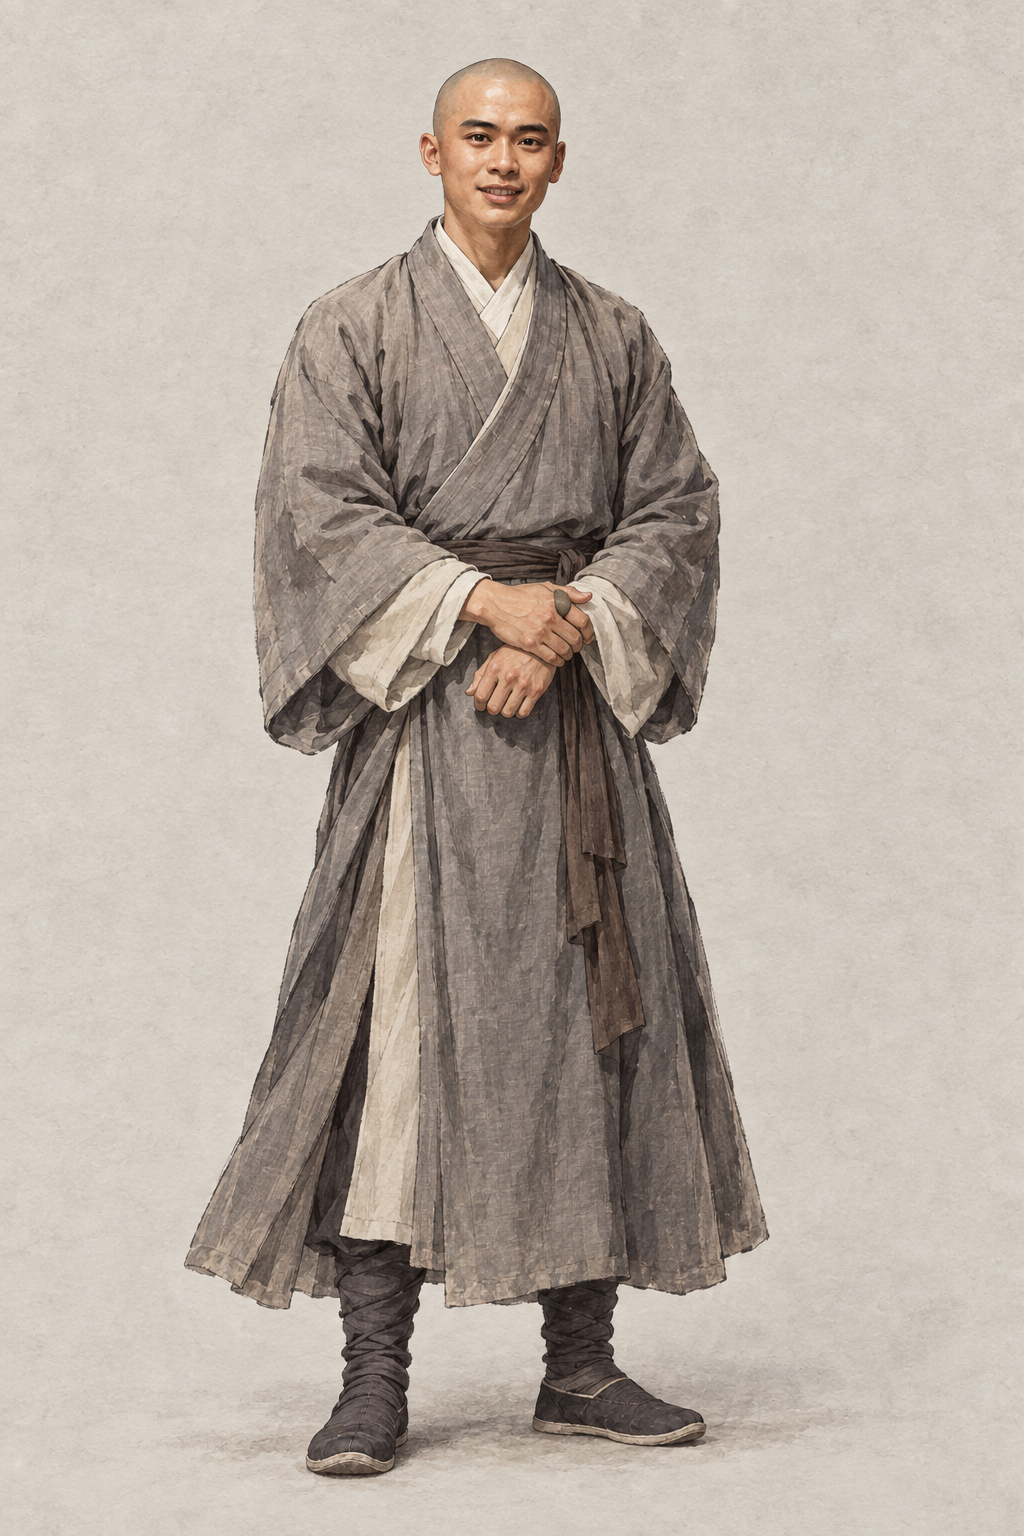
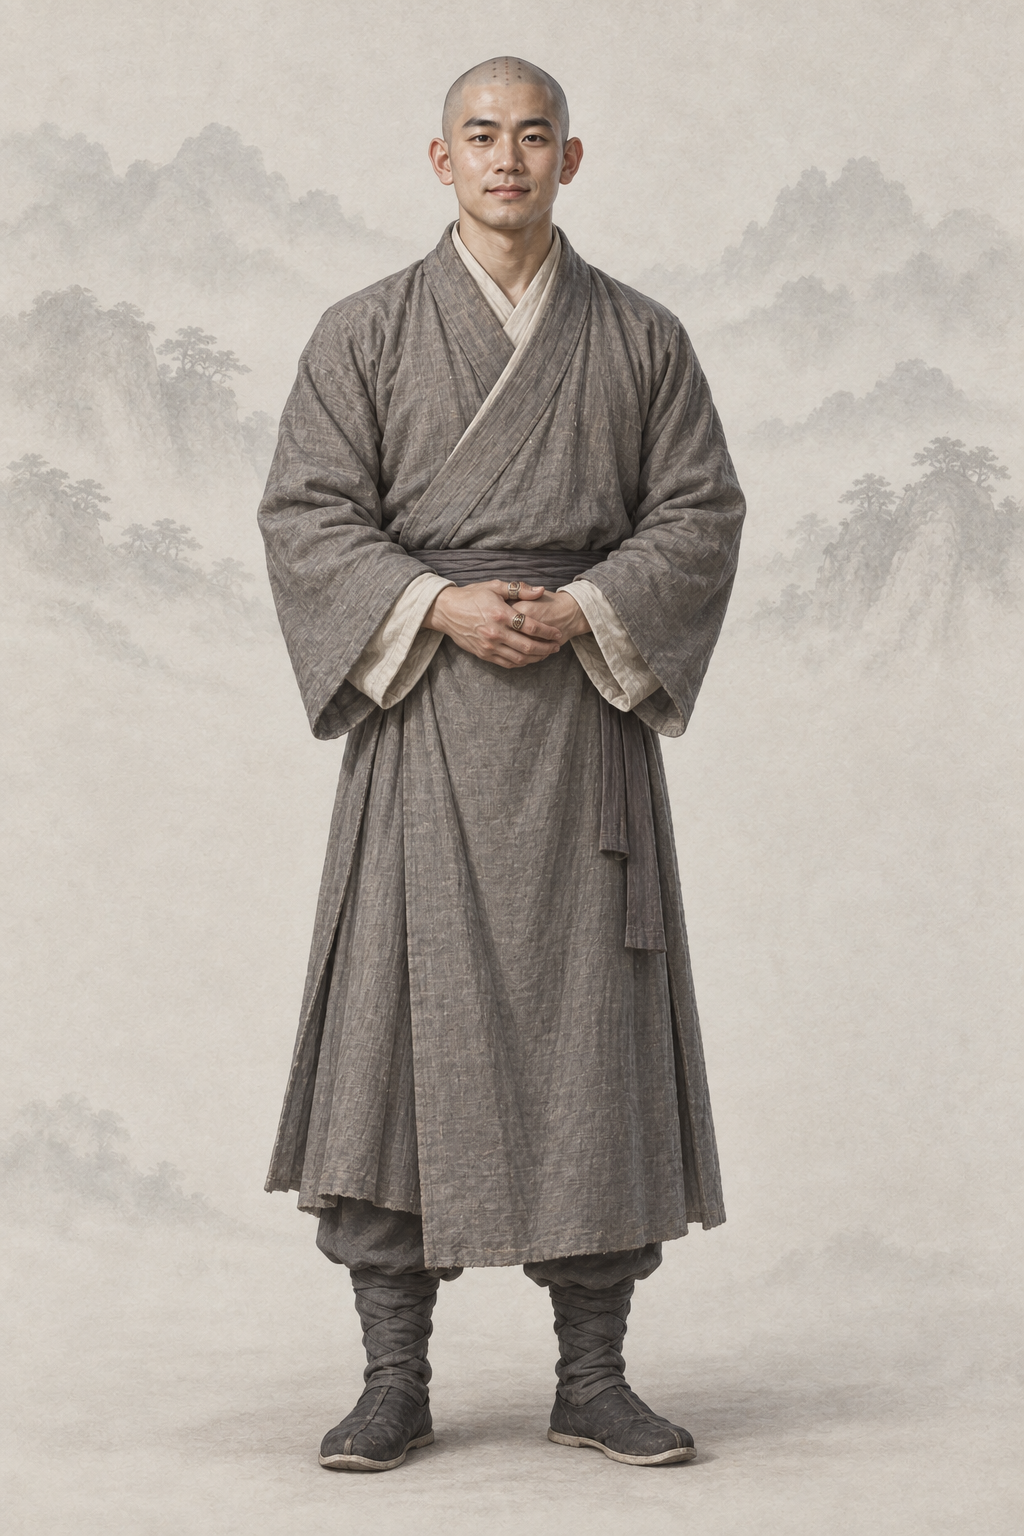
assets(character): por_npc_xuzhu__ch01_youth_lingjiu_base 虚竹（codex）
AR-31：重要人物加经典造型文字描写（原创面孔）

diff --git a/assets/default/prompts/characters/ch01-tianlong/npc_xuzhu.md b/assets/default/prompts/characters/ch01-tianlong/npc_xuzhu.md
@@ -17,11 +17,32 @@ status: redo
 redo_reason: "面容几乎照搬剧集演员（光头笑脸），按原著“浓眉大眼、鼻孔朝天、招风耳、厚唇、相貌颇丑”重做，连同五幅场景"
 reference_upload:
 - assets/default/baseline/character/male/ref_npc_linghuchong__ch05_base01.png
+codex_prompt_rev: 2026-10-02
 ---
 
 # 虚竹 · 《天龙八部》（ch01）
 
 ## Gemini 提示词
+
+> 2026-10-02 AR-31 改写（1 号出图员，codex exec · image_gen 出图）：重要人物借鉴经典影视造型，只写成文字——不写演员名、不上传剧照、原创面孔；主角和美人画得好看，去 AI 味，禁止幼态。出图时上传两张同性别基线立绘作画风参考（放在最后）。审核组原稿保留在下一节作历史。
+
+```text
+生成一张 2:3 竖幅全身人物立绘：单人、单一视角、完整全身——头顶、双手、双脚和手中器物的两端都在画面内，四周留出自然空白；人物站姿自然，身体基本朝向正面，头部端正（不歪头、不仰不俯），镜头平视。
+【画风】写实手绘古风人物插画，与本项目写实武侠角色立绘同一画风：人物是完整、坚实、比例真实的写实绘画；皮肤有真实质感——细小毛孔、细纹、晒痕、轻微色斑和自然的左右不对称，不磨皮、不油亮；头发有一根根的发丝和自然碎发；布料看得出经纬纹理、厚薄和自然垂坠的褶皱，带穿用过的轻微旧化，但完整不破烂；整体设色低饱和、沉稳；柔和的自然光从左上方照来，明暗过渡自然，不打舞台光、轮廓光或美颜柔光。这是手绘写实绘画，不是照片，不是三维渲染，也不是动漫或游戏 CG。
+【背景】不透明的暖浅灰色纸底，只在远处有极淡的水墨远山和薄雾，大面积留白；人物与背景明暗分明、轮廓边缘干净完整（后续要自动抠图），水墨和纸纹只在背景里，不侵入人物和衣服；脚下只有很淡的一点接触阴影。
+【人物】虚竹，《天龙八部》北宋少林小和尚，误解珍珑棋局、得无崖子传功、接掌灵鹫宫之后，仍保持朴素僧人装束；质朴仁厚、老实拘谨。
+【年龄与体态】约二十四岁的青年男子，中等身高，肩背厚实、身体结实（不魁梧、不胖），约 7.5 头身。
+【经典造型】借鉴经典武侠影视里这个角色深入人心的造型，只取发型、装束、配色、标志道具、气质和脸型类型，用原创面孔画出来，不像任何真实演员：憨厚朴实、老实巴交的小和尚：光头上有戒疤，浓眉大眼、厚嘴唇，一脸诚恳的憨笑，一身朴素的灰褐僧衣；忠厚可亲、让人一看就喜欢。
+【面容】原著写他浓眉大眼、一个大大的鼻子鼻孔朝天、双耳招风、嘴唇甚厚、容貌颇为丑陋。具体为：宽短的方脸、额头宽，浓黑的眉毛，眼睛大而圆、眼神质朴诚恳；大鼻子、鼻孔微微朝上；两耳明显外招（招风耳）；嘴唇厚；脸颊微胖、下巴短；相貌朴拙但端正可亲，不丑化、不滑稽。原著的大鼻子、招风耳只做轻微的辨识特征，整体朴拙而讨人喜欢，不丑化。
+【发式】剃光的头，头皮带一层青色发茬。
+【服饰】素灰褐色交领右衽僧衣，米色内衫，普通布带，绑腿和朴素僧鞋；不穿华丽袈裟。
+【道具】双手在腹前轻轻相握，右手拇指上戴一枚镶小宝石的旧指环（逍遥派掌门的七宝指环，细节待考），指环可辨；不持兵器。
+【姿态与神情】双脚稳稳站立，肩膀有点拘谨地端着；目光诚恳，带一点不知所措的憨笑，像刚被推上一个担不起又不得不担的位置。
+【不要】画面里不要任何文字、题款、印章、签名、水印、边框、分格或多视图；不要第二个人；不要幼态（童颜、娃娃脸、婴儿肥、儿童或少年身材、大头小身）；不要塑料感皮肤、磨皮美颜、网红脸（尖下巴大眼高鼻的模板脸）、过度对称、浓妆、偶像式打光、蜡像感；不要照片质感、三维渲染或动漫大眼；不要歪头、斜镜头；不要多指、缺指（设定的伤残除外）、手与器物粘连或悬空；汉式交领必须右衽（穿着者的左襟压在右襟上），不要左衽（设定为少数民族服制的除外），不要水平镜像；不要现代物品、发光特效、法阵或能量光。不要俊秀脸或演员脸；不要头发、冠帽；不要华丽袈裟、西夏驸马服；不要老僧皱纹；不要兵器或发光法器。
+【画风基线】随提示词上传的参考图里，最后两张是本项目的立绘画风基线：只参考它们的画风、用色、光线、质感和暖浅灰纸底加淡水墨的背景处理，整体画风必须与它们一致——精细写实的数字手绘插画，不是油画，不要厚涂笔触和画布纹理。参考图只取画风、光线、质感和背景处理，不取长相：不要照搬基线图里人物的长相、年龄、发型、服饰和姿势。
+```
+
+## 审核组 Gemini 提示词（2026-10-02 AR-30 重审稿；AR-31 改写前，历史，不再用于出图）
 
 > 2026-10-02 重要人物立绘重审（A 组，`tools/agents/reports/REVIEW-portraits-A-ch00-04.md`）：**整体重出**。面容几乎照搬剧集演员（光头笑脸），按原著“浓眉大眼、鼻孔朝天、招风耳、厚唇、相貌颇丑”重做，连同五幅场景。
 > 本条不上传任何参考图（`reference_upload: []`）；frontmatter 的 `references` 与本节以下内容是旧出图管线的历史记录，不再用于出图。
